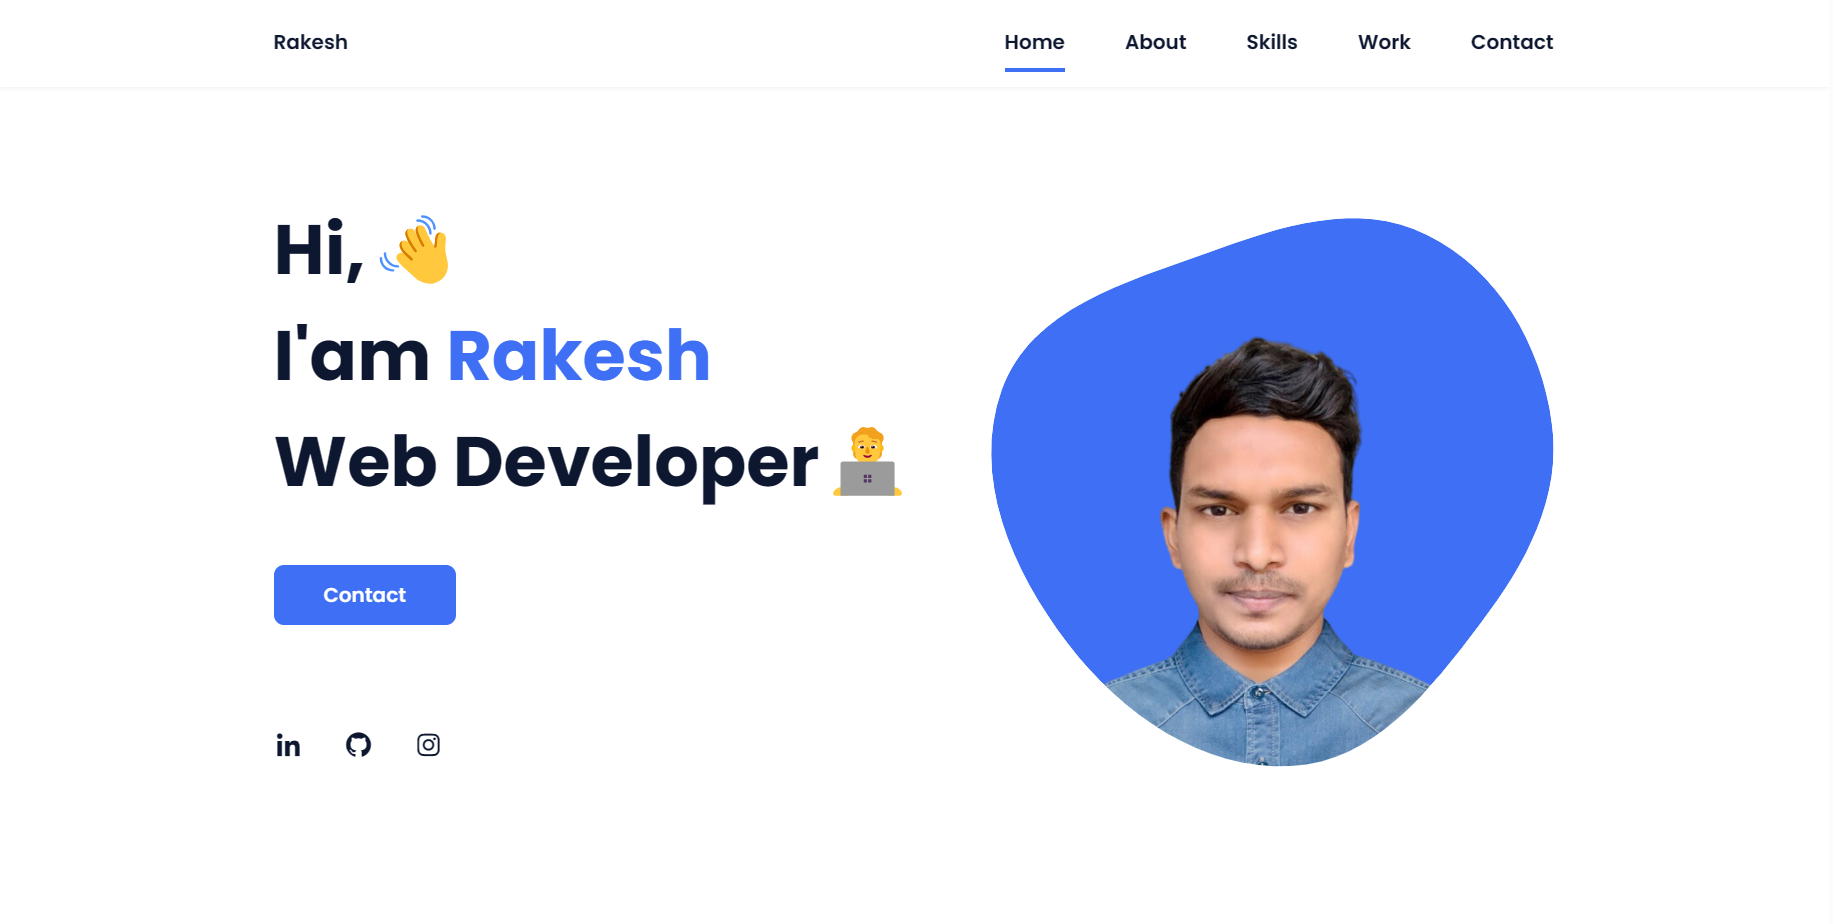
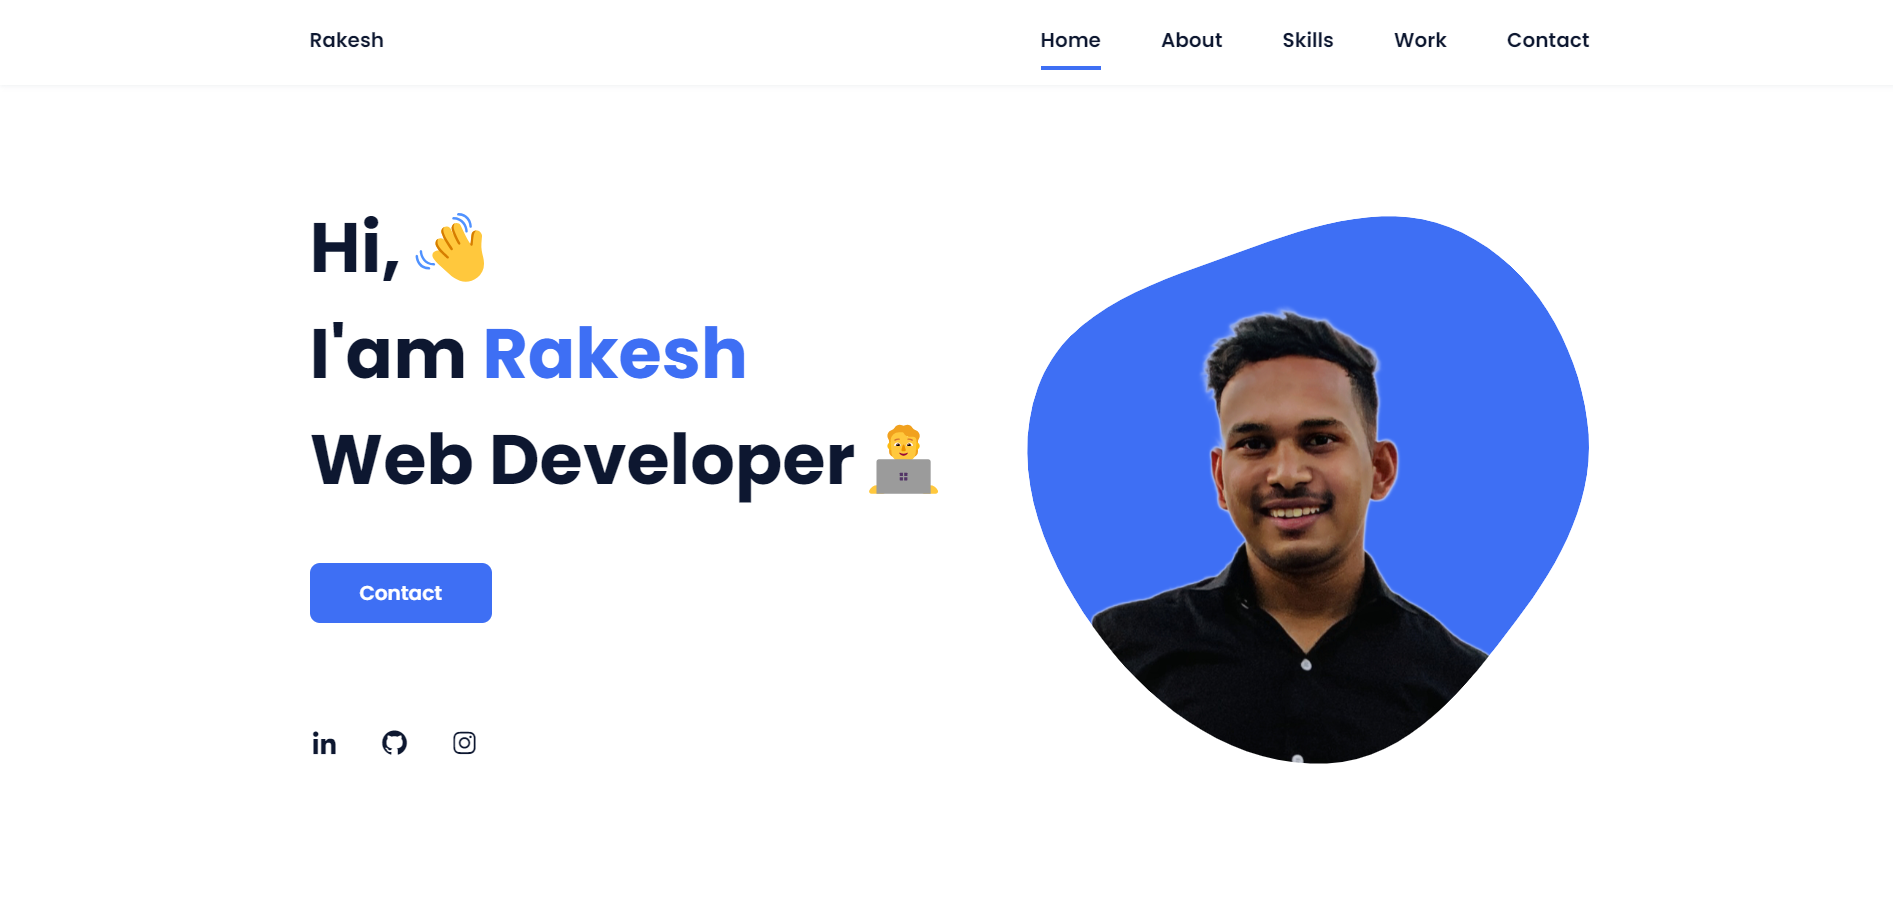
update img

diff --git a/index.html b/index.html
@@ -58,7 +58,7 @@
                         </mask>
                         <g mask="url(#mask0)">
                             <path d="M9.19024 145.964C34.0253 76.5814 114.865 54.7299 184.111 29.4823C245.804 6.98884 311.86 -14.9503 370.735 14.143C431.207 44.026 467.948 107.508 477.191 174.311C485.897 237.229 454.931 294.377 416.506 344.954C373.74 401.245 326.068 462.801 255.442 466.189C179.416 469.835 111.552 422.137 65.1576 361.805C17.4835 299.81 -17.1617 219.583 9.19024 145.964Z"/>
-                            <image class="home__blob-img" x="50" y="30" href="assets/img/rakesh.png"/>
+                            <image class="home__blob-img" x="-70" y="-10" href="assets/img/rakesh.png"/>
                         </g>
                     </svg>
                 </div>

diff --git a/assets/css/styles.css b/assets/css/styles.css
@@ -235,7 +235,7 @@ img {
 }
 
 .home__blob-img {
-  width: 360px;
+  width: 600px;
 }
 
 /*BUTTONS*/
